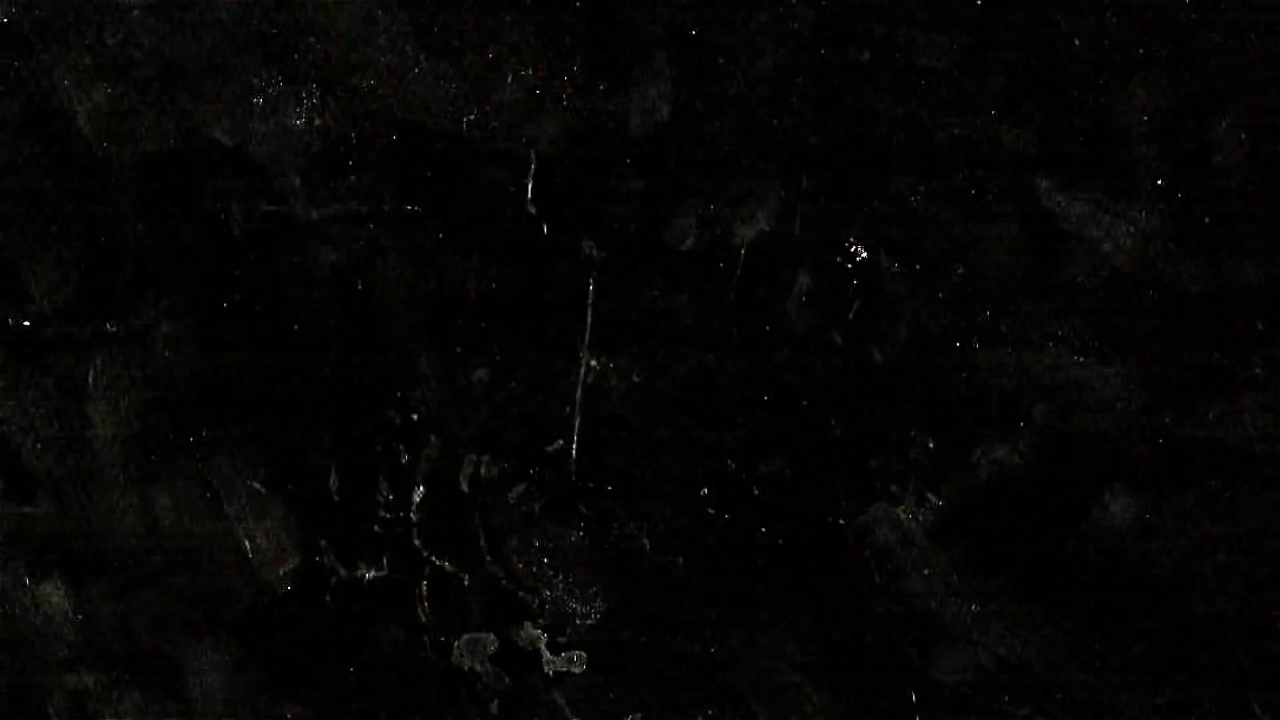
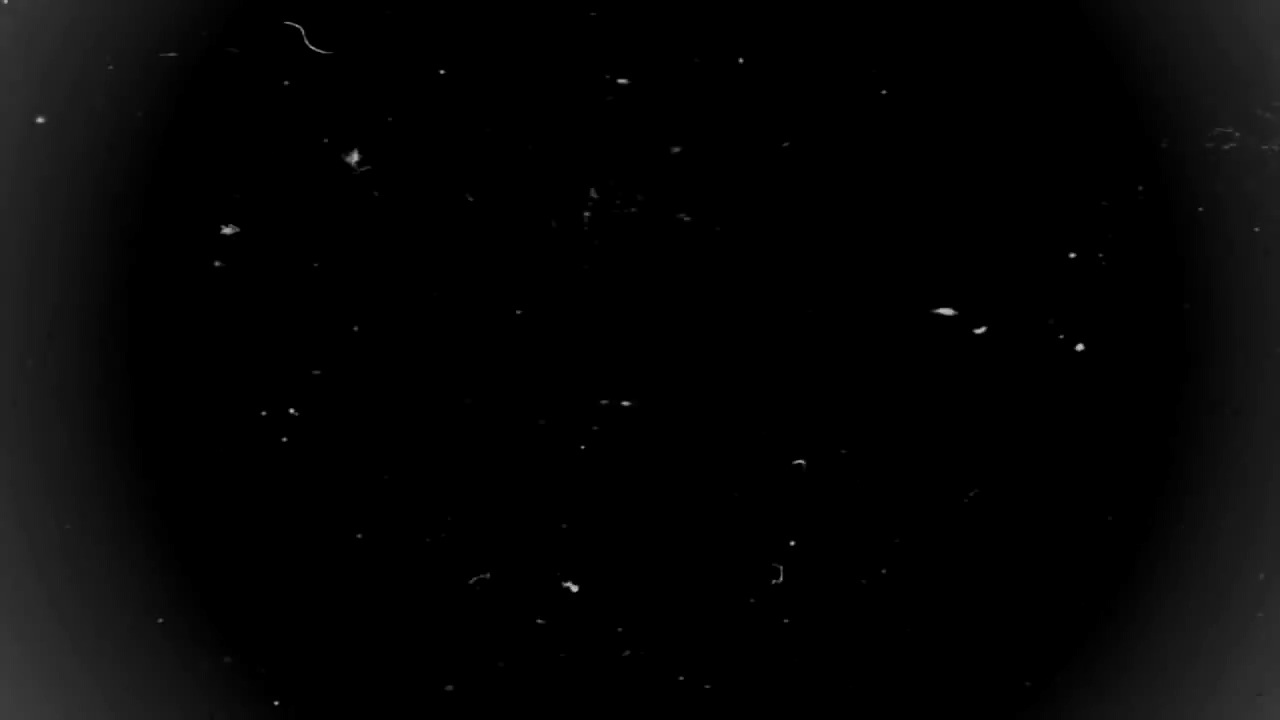
update

diff --git a/CPaC_Timelapse/CPaC_Timelapse/core.cpp b/CPaC_Timelapse/CPaC_Timelapse/core.cpp
@@ -319,7 +319,8 @@ std::vector<cv::Mat> core::Vintage(std::vector<cv::Mat> &input_sequence, std::ve
 
 	for (int i = 0; i < input_sequence.size(); i++) {
 
-		if (mask_duration_count < 5) {
+		// Randomly pick an artefact mask
+		if (mask_duration_count < 6) {
 			mask_duration_count++;
 		}
 		else {
@@ -327,18 +328,23 @@ std::vector<cv::Mat> core::Vintage(std::vector<cv::Mat> &input_sequence, std::ve
 			mask_duration_count = 0;
 		}
 		
+		// Apply the sepia filter
 		cv::Mat filtered_frame = cv::Mat::zeros(input_sequence.front().size(), CV_8UC3);
 		cv::Mat mask, blended_frame;
 		for (int x = 0; x < input_sequence[i].rows; x++) {
 			for (int y = 0; y < input_sequence[i].cols; y++) {
+
+				// Get B, G, R value from each channel
 				int b = input_sequence[i].at<cv::Vec3b>(x, y)[0];
 				int g = input_sequence[i].at<cv::Vec3b>(x, y)[1];
 				int r = input_sequence[i].at<cv::Vec3b>(x, y)[2];
 
+				// Create the new B, G, R value using the formula
 				int b_new = 0.272*(float)r + 0.534*(float)g + 0.131*(float)b;
 				int g_new = 0.349*(float)r + 0.686*(float)g + 0.168*(float)b;
 				int r_new = 0.393*(float)r + 0.769*(float)g + 0.189*(float)b;
 
+				// Make sure the obtained values are between 0 and 255
 				if (b_new > 255) b_new = 255;
 				if (g_new > 255) g_new = 255;
 				if (r_new > 255) r_new = 255;
@@ -346,14 +352,18 @@ std::vector<cv::Mat> core::Vintage(std::vector<cv::Mat> &input_sequence, std::ve
 				if (g_new < 0) b_new = 0;
 				if (r_new < 0) b_new = 0;
 
+				// Assign the new B, G, R value
 				filtered_frame.at<cv::Vec3b>(x, y)[0] = b_new;
 				filtered_frame.at<cv::Vec3b>(x, y)[1] = g_new;
 				filtered_frame.at<cv::Vec3b>(x, y)[2] = r_new;
 			}
 		}
 
+		// Apply the mask to the new frame
 		cv::resize(mask_sequence[m], mask, filtered_frame.size());
+		cv::bitwise_not(filtered_frame, filtered_frame);
 		cv::addWeighted(mask, alpha, filtered_frame, beta, 0.0, blended_frame);
+		cv::bitwise_not(blended_frame, blended_frame);
 		filtered_sequence.push_back(blended_frame);
 	}
 
@@ -377,8 +387,8 @@ std::vector<cv::Mat> core::Miniature(std::vector<cv::Mat> &input_sequence, cv::M
 		cv::Mat blurred_mask, blurred_frame;
 		cv::Mat filtered_frame = cv::Mat::zeros(input_sequence.front().size(), input_sequence.front().type());
 
-		cv::GaussianBlur(mask, blurred_mask, cv::Size(13, 13), 0, 0, cv::BORDER_REPLICATE);
-		cv::GaussianBlur(input_sequence[i], blurred_frame, cv::Size(13, 13), 0, 0, cv::BORDER_REPLICATE);
+		cv::GaussianBlur(mask, blurred_mask, cv::Size(7, 7), 0, 0, cv::BORDER_REPLICATE);
+		cv::GaussianBlur(input_sequence[i], blurred_frame, cv::Size(7, 7), 0, 0, cv::BORDER_REPLICATE);
 
 		for (int x = 0; x < filtered_frame.rows; x++){
 			for (int y = 0; y < filtered_frame.cols; y++){
@@ -393,74 +403,10 @@ std::vector<cv::Mat> core::Miniature(std::vector<cv::Mat> &input_sequence, cv::M
 				filtered_frame.at<cv::Vec3b>(x, y) = beta * input_pixel + alpha * blurred_pixel;
 			}
 		}
+		//cv::cvtColor(blurred_mask, blurred_mask, CV_GRAY2BGR);
 		filtered_sequence.push_back(filtered_frame);
 	}
 	
 	return filtered_sequence;
 
-}
-
-std::vector<cv::Mat> core::GetRemapMatrix(int h, int w) {
-
-	std::vector<cv::Mat> remap_xy;
-
-	cv::Mat remap_x_row = cv::Mat::zeros(1, w, CV_32FC1);
-	cv::Mat remap_y_col = cv::Mat::zeros(h, 1, CV_32FC1);
-
-	cv::Mat remap_x, remap_y;
-
-	for (int i = 0; i < w; i++) {
-		remap_x_row.at<float>(0, i) = i;
-	}
-	cv::repeat(remap_x_row, h, 1, remap_x);
-
-
-	for (int i = 0; i < h; i++) {
-		remap_y_col.at<float>(i, 0) = i;
-	}
-	cv::repeat(remap_y_col, 1, w, remap_y);
-
-	remap_xy.push_back(remap_y);
-	remap_xy.push_back(remap_x);
-
-	return remap_xy;
-
-}
-
-std::vector<cv::Mat> core::ConvertFlowXY2(cv::Mat optical_flow, std::vector<cv::Mat> remap_xy) {
-
-	bool cuda = false;
-
-	if (cuda) {
-		std::vector<cv::cuda::GpuMat> flow_xy;
-		cv::cuda::GpuMat remap_x, remap_y, result_x, result_y;
-		cv::Mat flow_x, flow_y;
-
-		cv::cuda::split(optical_flow, flow_xy);
-
-		remap_y.upload(remap_xy[0]);
-		remap_x.upload(remap_xy[1]);
-
-		cv::cuda::add(flow_xy[0], remap_xy[0], result_y);
-		cv::cuda::add(flow_xy[1], remap_xy[1], result_x);
-
-		result_y.download(flow_y);
-		result_x.download(flow_x);
-
-		std::vector<cv::Mat> new_flow_xy;
-		new_flow_xy.push_back(flow_x);
-		new_flow_xy.push_back(flow_y);
-		return new_flow_xy;
-	}
-	else {
-		std::vector<cv::Mat> flow_xy;
-		cv::split(optical_flow, flow_xy);
-
-		std::vector<cv::Mat> new_flow_xy;
-
-		new_flow_xy.push_back(flow_xy[1] + remap_xy[1]);
-		new_flow_xy.push_back(flow_xy[0] + remap_xy[0]);
-
-		return new_flow_xy;
-	}
 }

diff --git a/CPaC_Timelapse/CPaC_Timelapse/main.cpp b/CPaC_Timelapse/CPaC_Timelapse/main.cpp
@@ -8,7 +8,7 @@ Coded By Yuqi Wang (18043263)
 
 /*
 *Runtime: WINDOWS 10 X64 + OpenCV 3.4 + CUDA 9.1 + VS2017(v15)
-OpenCV CUDA Binaries: https://yuqi.dev/tools/opencv340cuda91.zip
+OpenCV CUDA Binaries: https://jamesbowley.co.uk/downloads/
 
 *External Framework/Library/Plugin:
 cvui(MIT License) https://github.com/Dovyski/cvui
@@ -34,14 +34,16 @@ Bulk Rename Utility https://www.bulkrenameutility.co.uk/Main_Intro.php
 #include "cvui/cvui.h"
 
 #define WINDOW_NAME "Time-Lapse/Slow-Mo Toolbox"
-#define PADDING_HORIZONTAL 6
-#define PADDING_VERTICAL 6
 
 // State Machine (Non-OO)
 const enum STATE { IDLE, LOAD, PROCESS, PLAY, SAVE };
-// Prompt
+
 std::string EXPORT_PATH ="";
 std::string IMPORT_PATH = "";
+
+bool INIT_VINTAGE_MASK = false;
+bool HAS_CUDA = false;
+bool USE_CUDA = false;
 
 bool chk_enhance = false;
 bool chk_vintage = false;
@@ -52,15 +54,11 @@ int val_interp_frame = 0;
 int val_import_fps = 1;
 int val_export_fps = 60;
 
-bool INIT_VINTAGE_MASK = false;
-bool HAS_CUDA = false;
-bool USE_CUDA = false;
-
 int main(void){
 	
 	STATE CURRENT_STATE = STATE::IDLE;
 	
-srand(time(NULL));
+	srand(time(NULL));
 
 	if (cv::cuda::getCudaEnabledDeviceCount() != 0) {
 		HAS_CUDA = true;
@@ -199,7 +197,6 @@ srand(time(NULL));
 					else {
 						std::cout << "Opitcal Flow Already Computed" << std::endl;
 					}
-				
 				}
 
 				processed_sequence = raw_sequence;
@@ -255,8 +252,6 @@ srand(time(NULL));
 		else {
 			cvui::text(gui, 12, 576, "No CUDA Device");
 		}
-
-
 
 		// GUI: Previwer
 		cvui::window(gui, 200, 6, 644, 504, "Preview");

diff --git a/CPaC_Timelapse/CPaC_Timelapse/core.h b/CPaC_Timelapse/CPaC_Timelapse/core.h
@@ -1,24 +1,18 @@
 #pragma once
 
 namespace core {
-	std::vector<cv::Mat> GammaCorrection(std::vector<cv::Mat> raw_sequence, cv::Mat &gamma_lookup_table);
-
+	
 	std::vector<cv::Mat> ComputeOpticalFlow(std::vector<cv::Mat> &raw_sequence, bool &use_cuda);
 	std::vector<cv::Mat> ConvertFlowXY(cv::Mat optical_flow);
-
-	std::vector<cv::Mat> MaskOpticalFlow(std::vector<cv::Mat> optical_flow);
-	std::vector<cv::Mat> GenerateMotionTrail(std::vector<cv::Mat>raw_sequence);
-	std::vector<cv::Mat> ApplyMotionTrail(std::vector<cv::Mat>input_sequence, std::vector<cv::Mat>motion_trail);
-
 	std::vector<cv::Mat> RetimeSequence(std::vector<cv::Mat> &raw_sequence, std::vector<cv::Mat> &optical_flow, int &interpolation_frames);
 
 	std::vector<cv::Mat> EnhanceImage(std::vector<cv::Mat> input_sequence);
+	std::vector<cv::Mat> GammaCorrection(std::vector<cv::Mat> raw_sequence, cv::Mat &gamma_lookup_table);
+	cv::Mat GenerateGammaLookupTable(double gamma);
 
 	std::vector<cv::Mat> Vintage(std::vector<cv::Mat> &input_sequence, std::vector<cv::Mat> &mask_sequence);
 	std::vector<cv::Mat> Miniature(std::vector<cv::Mat> &input_sequence, cv::Mat &mask_miniature);
+	std::vector<cv::Mat> GenerateMotionTrail(std::vector<cv::Mat>raw_sequence);
+	std::vector<cv::Mat> ApplyMotionTrail(std::vector<cv::Mat>input_sequence, std::vector<cv::Mat>motion_trail);
 
-	std::vector<cv::Mat> GetRemapMatrix(int w, int h);
-	std::vector<cv::Mat> ConvertFlowXY2(cv::Mat optical_flow, std::vector<cv::Mat> remap_xy);
-
-	cv::Mat GenerateGammaLookupTable(double gamma);
 };
